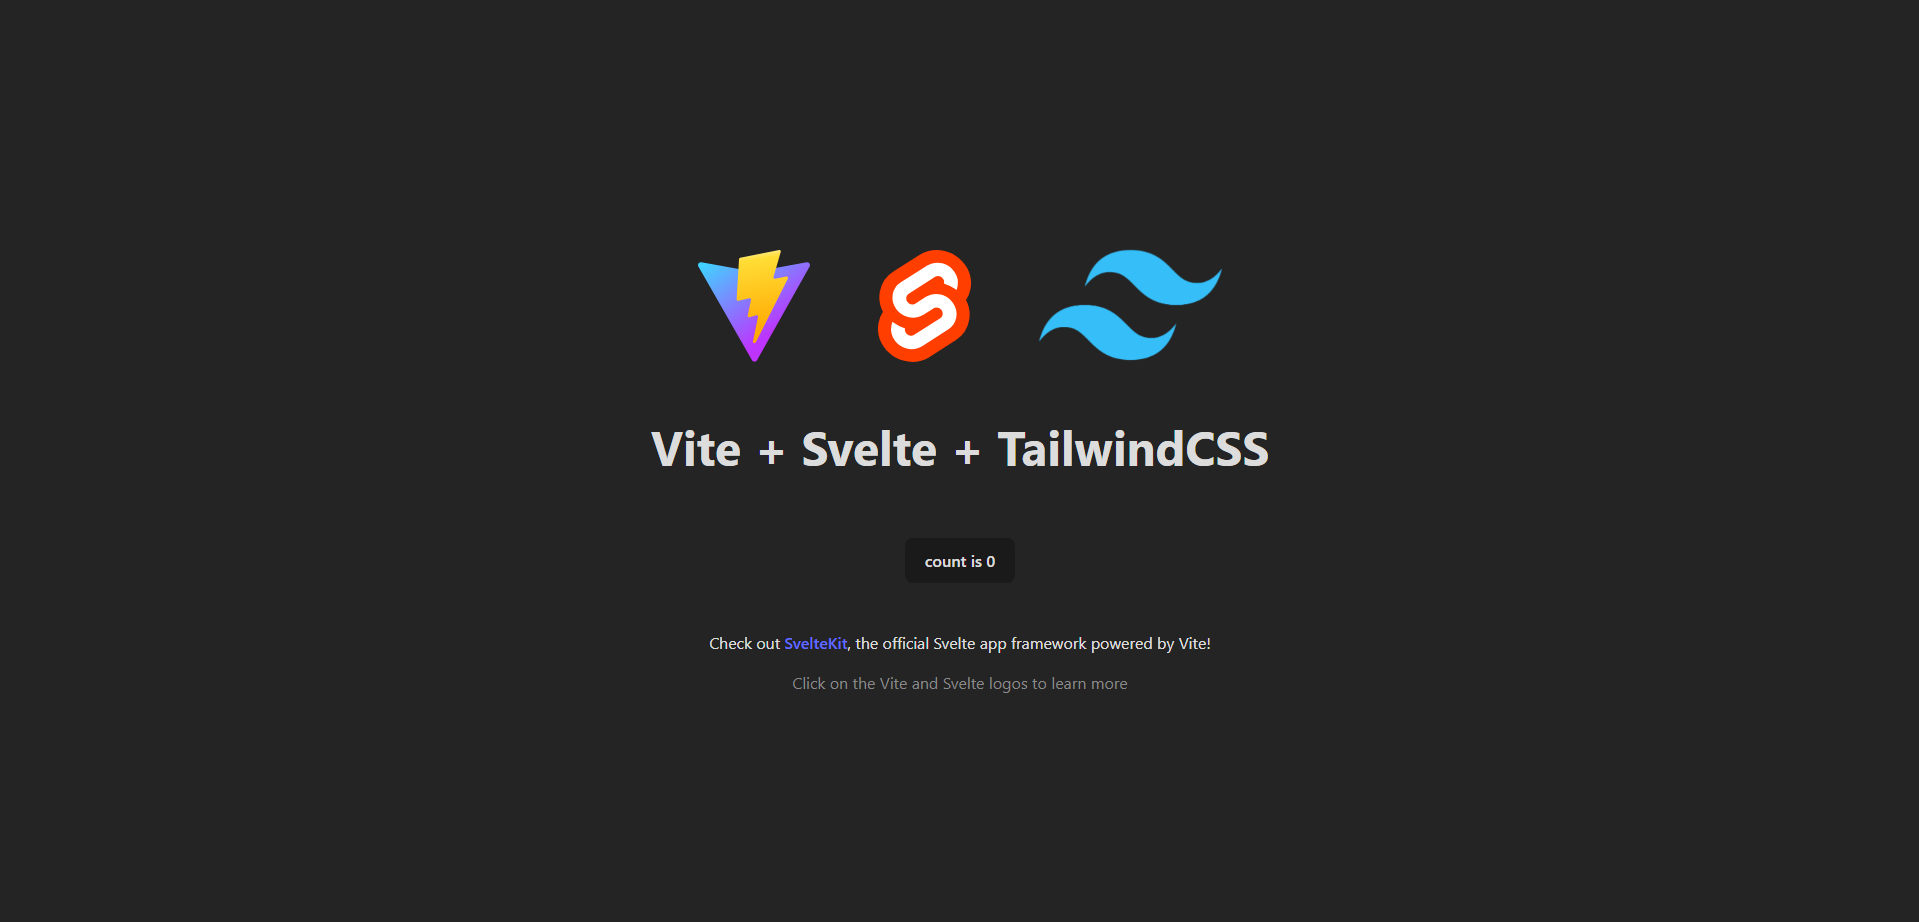
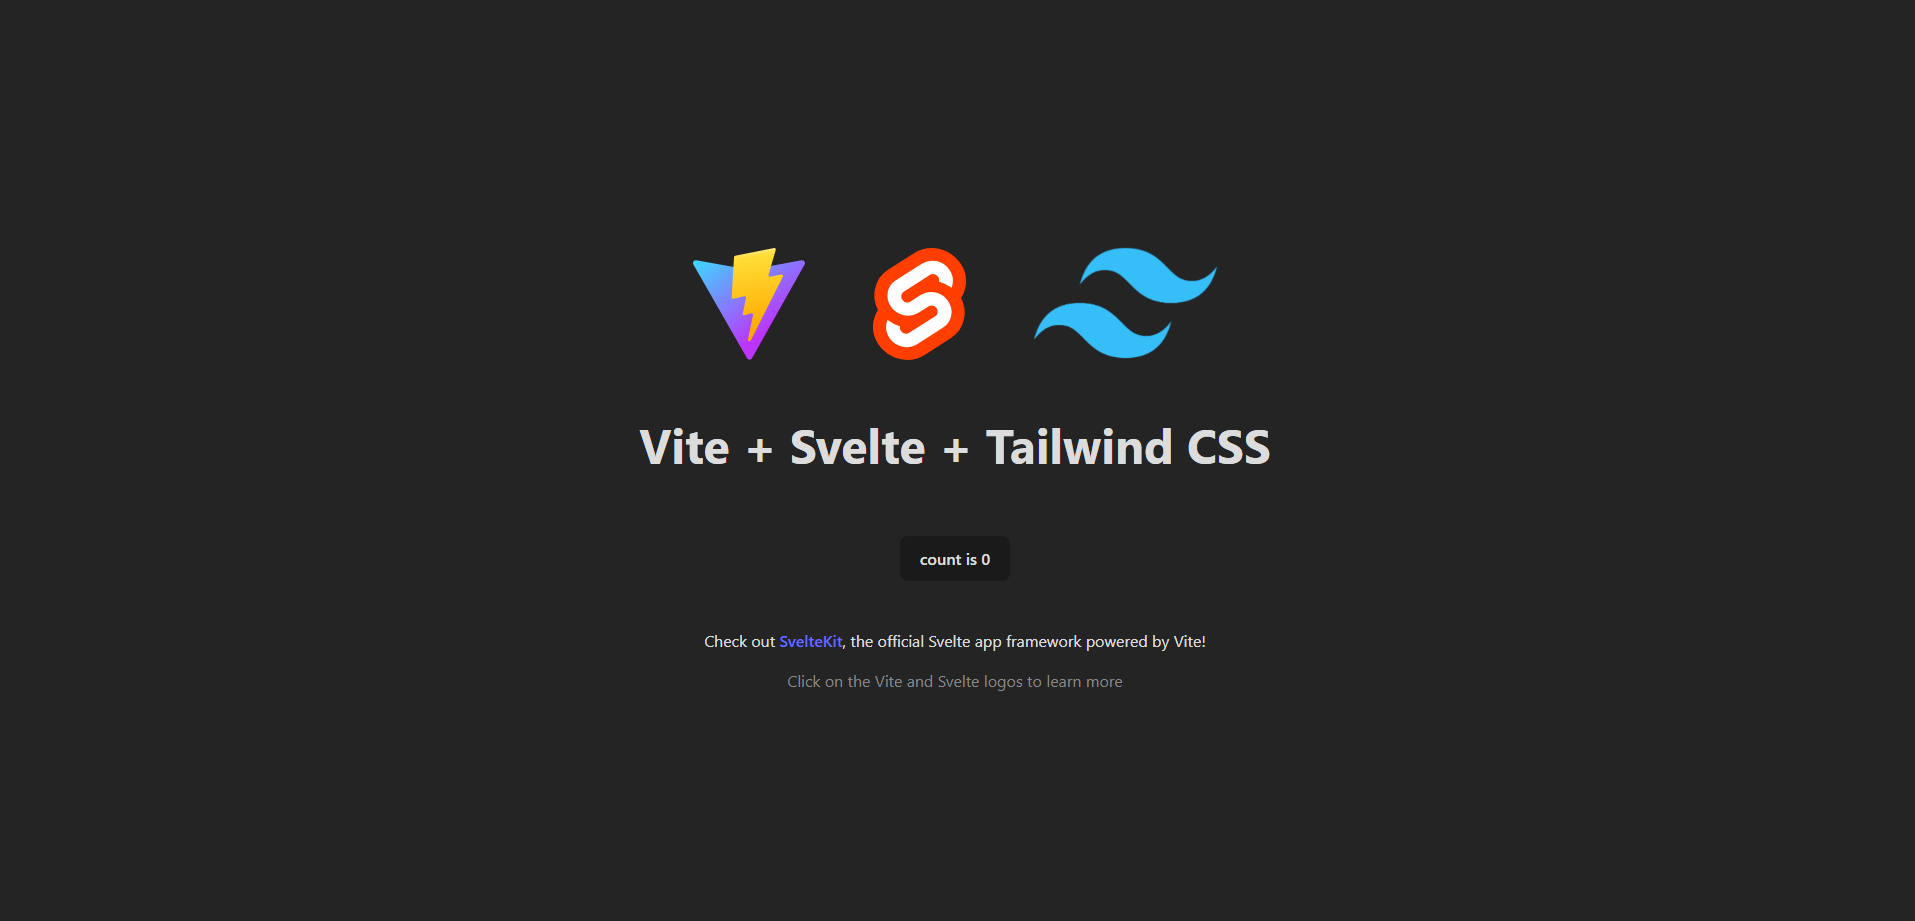
add final changes

diff --git a/vite.config.js b/vite.config.js
@@ -1,7 +1,8 @@
-import { defineConfig } from 'vite'
-import { svelte } from '@sveltejs/vite-plugin-svelte'
+import { defineConfig } from 'vite';
+import { svelte } from '@sveltejs/vite-plugin-svelte';
 
 // https://vitejs.dev/config/
 export default defineConfig({
   plugins: [svelte()],
-})
+  base: '/svelte/',
+});

diff --git a/src/App.svelte b/src/App.svelte
@@ -19,7 +19,7 @@
       <img src={tailwindcssSrc} class="logo tailwind" alt="Tailwind CSS Logo" />
     </a>
   </div>
-  <h1 class="text-5xl font-bold my-9">Vite + Svelte + TailwindCSS</h1>
+  <h1 class="text-5xl font-bold my-9">Vite + Svelte + Tailwind CSS</h1>
 
   <div class="card p-8">
     <Counter />

diff --git a/src/main.js b/src/main.js
@@ -1,8 +1,8 @@
-import './app.css'
-import App from './App.svelte'
+import './app.css';
+import App from './App.svelte';
 
 const app = new App({
   target: document.getElementById('app'),
-})
+});
 
-export default app
+export default app;

diff --git a/README.md b/README.md
@@ -88,3 +88,75 @@ my-project/
 ```
 
 ## 🛫 How to deploy to GitHub Pages
+
+Deploying to github pages is totally up to you, be it through **[GitHub Actions](https://docs.github.com/en/actions/deployment/about-deployments/deploying-with-github-actions)**, or via **[gh-pages](https://www.npmjs.com/package/gh-pages)** without jekyll, or manually.
+
+> [!NOTE]
+>
+> - Take note of the specific configurations for your project before deploying it, otherwise, it won't work properly on production. Refer to the documentations for [Svelte](https://svelte.dev/docs/introduction).
+> - Also take note that [GitHub Pages](https://pages.github.com/) have limitations, it's free, yes, but it has a limit.
+
+### ❗ via package without the use of Jekyll SSG ❗
+
+**1. Install `gh-pages` package.**
+
+```bash
+npm install gh-pages --save-dev
+```
+
+**2. Add base path to your repo in `vite.config.js`.**
+
+```js
+// vite.config.js
+import { defineConfig } from 'vite';
+import { svelte } from '@sveltejs/vite-plugin-svelte';
+
+// https://vitejs.dev/config/
+export default defineConfig({
+  plugins: [svelte()],
+  base: '/svelte/',
+});
+```
+
+**3. Add `deploy` to your scripts.**
+
+```json
+{
+  "scripts": {
+    "deploy": "npm run build && gh-pages -d build"
+  }
+}
+```
+
+**4. Create and configure a new branch for `gh-pages`.**
+I like to do this manually. If there is some automated way, feel free to let me know by any means.
+
+```bash
+git checkout --orphan gh-pages
+git reset --hard
+git commit --allow-empty -m 'commit_message'
+git push origin gh-pages
+```
+
+**5. Publish the production build.**
+
+```bash
+npm run deploy
+```
+
+### ❗ via manually configuring github pages settings ❗
+
+**1. Create your project.**
+Start coding your project, either use a framework like React, Vue, or not.
+
+**2. Publish production build to GitHub.**
+Push your _production build_ to your github repo. After that, check if your `index.html` file is uploaded, since it is one of the core files needed for your website to work.
+
+**3. Configure your GitHub Pages on repo Settings.**
+Navigate to `Settings > Pages > Build and deployment`. Make sure the **Source** says 'Deploy from a branch', and then configure the **Branch** settings and change it to your branch with the files.
+
+---
+
+🌎 [kerbethecoder](https://kerbethecoder.com/)  
+📫 krby.cnts@gmail.com  
+📌 July 28, 2024
